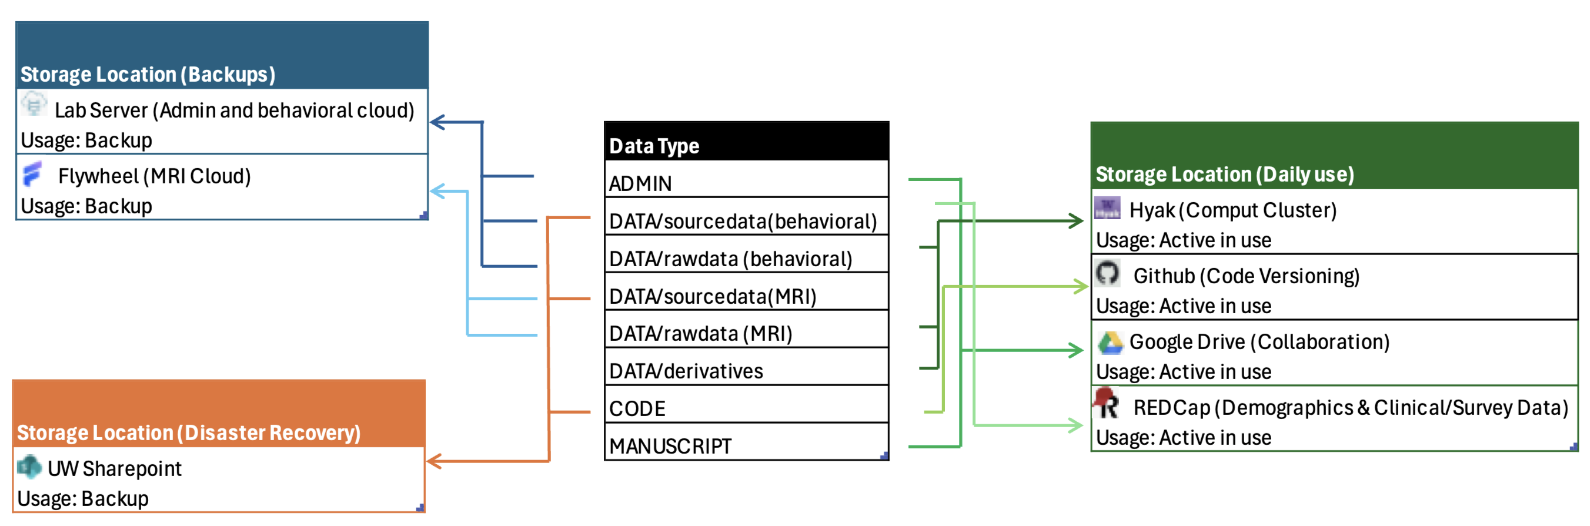
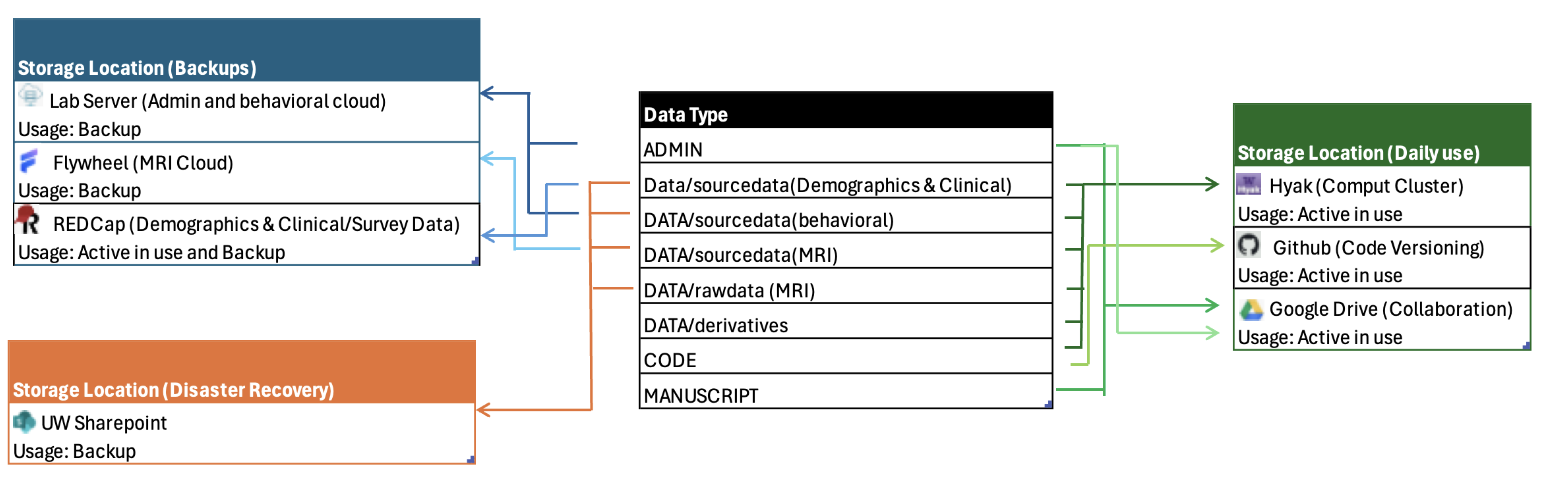
GITBOOK-32: No subject

Changed region(s): [[0.0, 0.0309, 1.0, 0.9877], [0.2812, 0.6173, 0.3438, 0.6481]]

diff --git a/data-management/data-management-workflow/the-storage-ecosystem.md b/data-management/data-management-workflow/the-storage-ecosystem.md
@@ -11,15 +11,15 @@ Rule of Thumb:
 * Storage Locations are for safe-keeping and "Sources of Truth"
 * Active Locations are for computing, coding, and writing.
 
-<figure><img src="../../.gitbook/assets/image (11).png" alt=""><figcaption></figcaption></figure>
+<figure><img src="../../.gitbook/assets/image.png" alt=""><figcaption></figcaption></figure>
 
 ***
 
-## Part 1: Active Use (The "Workhorses")
+## Part 1: Active Use&#x20;
 
 _These locations are temporary workspaces. Data here is the source, will be transient, changing, or being computed on._
 
-### **1. UW active SharePoint**
+### **1. UW active SharePoint (fang\_lab)**
 
 * Role: Admin; Secure workspace for daily sensitive data handling.
 
@@ -34,11 +34,11 @@ Sync Routine:&#x20;
 
 * assessment video is uploaded here immediately (within 24 hours after gathered by rater)
 
-### 2. UW REDCap **(**&#x44;emographics & Clinical/Survey Databas&#x65;**)** <mark style="color:red;">TBD</mark>
+### 2. UW REDCap **(**&#x44;emographics & Clinical/Survey Databas&#x65;**)**
 
 * Role: The "Source of Truth" for Participant PHI, Demographics, and Survey responses.
 * Storage Policy: "System of Record" (Data originates here). strictly NO permanent storage of exported PHI on local laptops. Never delete the original data.&#x20;
-* Sync Routine (Export): On the day of data collection, the RA must verify data completeness. Data manager will upload the data to SharePoint every half a year (1/15; 7/15; by data manager).
+* Sync/QA Routine (Export): On the day of data collection, the RA must verify data completeness.&#x20;
 
 ### 3. Lab laptop **(**&#x42;ehavioral Databas&#x65;**)** <mark style="color:red;">TBD</mark>
 
@@ -50,7 +50,7 @@ Sync Routine:&#x20;
 
 * Role: The "Source of Truth" for MRI data.
 * Storage Policy: "System of Record" (Data originates here). Never delete the original data.
-* Sync Routine (Export):  On the day of data collection, the RA must verify data completeness. Data manager will upload the data to SharePoint every half a year (1/15; 7/15; by data manager).
+* Sync/QA Routine (Export):  On the day of data collection, the RA must verify data completeness. Data manager will upload the data to SharePoint every half a year (1/15; 7/15; by data manager).
 
 ### **5. Hyak (High-Performance Computing)**
 
@@ -96,7 +96,6 @@ Sync Routine:&#x20;
 
     ```
     Project_Name/
-    ├── ADMIN/                # Grant text, Schedules
     └── MANUSCRIPT/           # Drafts, Tables, Figures for papers
     ```
 
@@ -108,24 +107,20 @@ Sync Routine:&#x20;
 
 _These locations are primarily for data preservation for on-going projects_
 
-### **1. UW active SharePoint (Clinical and Demographics, Behavioral,  and MRI)**
+### **1. UW active SharePoint (Behavioral  and MRI, fang\_lab SharePoint)**
 
 * Role:&#x20;
-  * Secure, HIPAA-compliant, immutable backup for ALL unrecoverable source data (MRI + Behavioral + Clinical + Demographics).
-  * Secure, HIPAA-compliant, immutable backup for ALL unrecoverable raw data (MRI + Behavioral + Clinical + Demographics), processed to excluded HIP info and should be ready for share. &#x20;
+  * Secure, HIPAA-compliant, immutable backup for ALL unrecoverable source data (MRI + Behavioral).
+  * Secure, HIPAA-compliant, immutable backup for ALL unrecoverable raw data (MRI + Behavioral ), processed to excluded HIP info and should be ready for share. &#x20;
 * Storage Policy: "Raw Assets Only" (No derivatives, no scratch files).
 *   Contents:
 
     <pre><code>Project_Name/
     └── Full Access_Source Data and Admin/
-    │   ├── sourcedata/       # The Safety Net (DICOMs, Demographics, Clinical Accessments and Task Behavioral)
-    │        ├── <a data-footnote-ref href="#user-content-fn-1">clinical_accessments</a>
-    │        ├── <a data-footnote-ref href="#user-content-fn-2">demographics</a>
-    │        ├── MRI(<a data-footnote-ref href="#user-content-fn-3">dicom</a>)
-    │        └── <a data-footnote-ref href="#user-content-fn-4">behavioral</a>
+    │   ├── sourcedata/       # The Safety Net (DICOMs and Task Behavioral)
+    │        ├── MRI(<a data-footnote-ref href="#user-content-fn-1">dicom</a>)
+    │        └── <a data-footnote-ref href="#user-content-fn-2">behavioral</a>
     └── Limited Access_Deidentified data/
-            ├── clinical_accessments
-            ├── demographics
             ├── MRI(nifit) # The Standard (BIDS NIfTIs &#x26; TSVs)
             └── behavioral  
       
@@ -159,7 +154,7 @@ _These locations are primarily for data preservation for on-going projects_
 
 ***
 
-## Part 3: The Backups for complete projects (disaster recovery)
+## Part 3: The Backups for complete projects (disaster recovery, fang\_achive)
 
 _These locations serve as the authoritative archival copies of completed research projects, ensuring long-term data preservation, reproducibility, and disaster recovery. Archived files should remain protected from accidental modification or deletion._
 
@@ -217,10 +212,6 @@ _These locations serve as the authoritative archival copies of completed researc
 
 
 
-[^1]: [https://uwnetid.sharepoint.com/:f:/r/sites/i-focus\_fang\_lab/Shared%20Documents/i-focus/DATA/sourcedata/clinical\_accessments?csf=1\&web=1\&e=HdqSa0](https://uwnetid.sharepoint.com/:f:/r/sites/i-focus_fang_lab/Shared%20Documents/i-focus/DATA/sourcedata/clinical_accessments?csf=1\&web=1\&e=HdqSa0)
+[^1]: [https://uwnetid.sharepoint.com/:f:/r/sites/i-focus\_fang\_lab/Shared%20Documents/i-focus/DATA/sourcedata/dicom?csf=1\&web=1\&e=rdQpSy](https://uwnetid.sharepoint.com/:f:/r/sites/i-focus_fang_lab/Shared%20Documents/i-focus/DATA/sourcedata/dicom?csf=1\&web=1\&e=rdQpSy)
 
-[^2]: [https://uwnetid.sharepoint.com/:f:/r/sites/i-focus\_fang\_lab/Shared%20Documents/i-focus/DATA/sourcedata/demographics?csf=1\&web=1\&e=6PRF4e](https://uwnetid.sharepoint.com/:f:/r/sites/i-focus_fang_lab/Shared%20Documents/i-focus/DATA/sourcedata/demographics?csf=1\&web=1\&e=6PRF4e)
-
-[^3]: [https://uwnetid.sharepoint.com/:f:/r/sites/i-focus\_fang\_lab/Shared%20Documents/i-focus/DATA/sourcedata/dicom?csf=1\&web=1\&e=rdQpSy](https://uwnetid.sharepoint.com/:f:/r/sites/i-focus_fang_lab/Shared%20Documents/i-focus/DATA/sourcedata/dicom?csf=1\&web=1\&e=rdQpSy)
-
-[^4]: [https://uwnetid.sharepoint.com/:f:/r/sites/i-focus\_fang\_lab/Shared%20Documents/i-focus/DATA/sourcedata/task\_behavioral?csf=1\&web=1\&e=OSIriY](https://uwnetid.sharepoint.com/:f:/r/sites/i-focus_fang_lab/Shared%20Documents/i-focus/DATA/sourcedata/task_behavioral?csf=1\&web=1\&e=OSIriY)
+[^2]: [https://uwnetid.sharepoint.com/:f:/r/sites/i-focus\_fang\_lab/Shared%20Documents/i-focus/DATA/sourcedata/task\_behavioral?csf=1\&web=1\&e=OSIriY](https://uwnetid.sharepoint.com/:f:/r/sites/i-focus_fang_lab/Shared%20Documents/i-focus/DATA/sourcedata/task_behavioral?csf=1\&web=1\&e=OSIriY)
